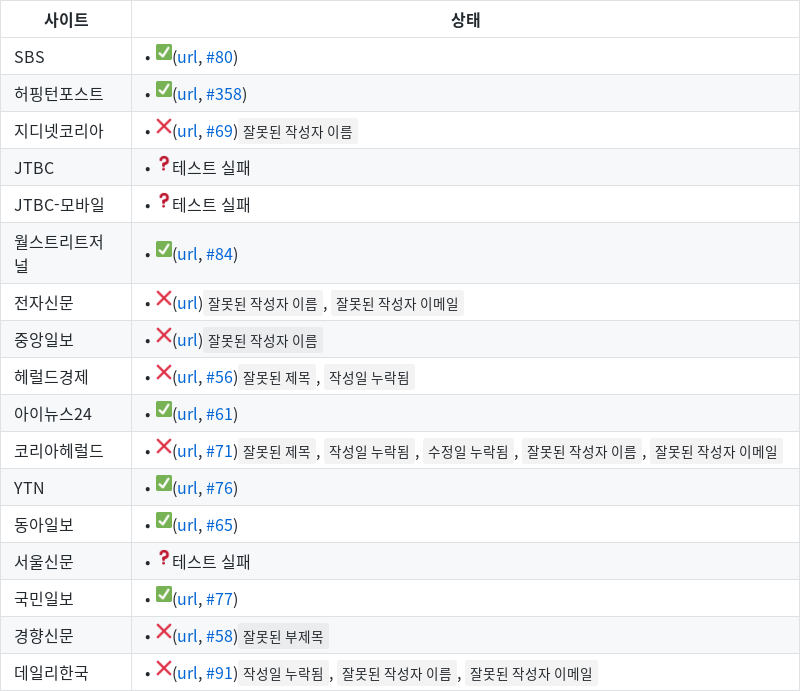
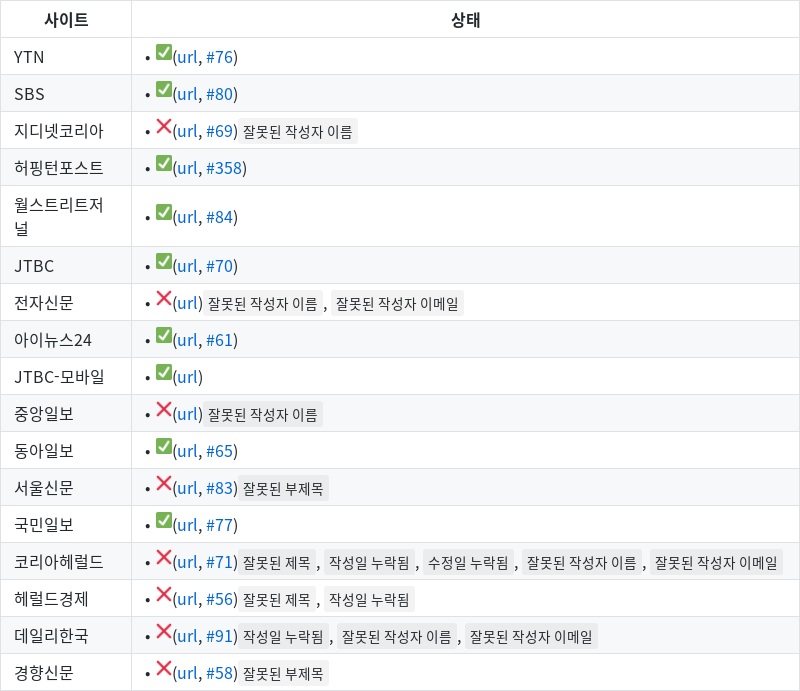
Fri Dec  6 00:07:18 UTC 2019

diff --git a/health-check.md b/health-check.md
@@ -1,19 +1,19 @@
 | 사이트 | 상태 |
 |------|-------|
-| SBS | • ✅([url](https://news.sbs.co.kr/news/endPage.do?news_id=N1002697236), [#80](https://github.com/disjukr/just-news/issues/#80)) |
-| 허핑턴포스트 | • ✅([url](https://www.huffingtonpost.kr/entry/story_kr_5d36a558e4b004b6adb5029c?9e4), [#358](https://github.com/disjukr/just-news/issues/#358)) |
-| 지디넷코리아 | • ❌([url](http://www.zdnet.co.kr/view/?no=20141104074223), [#69](https://github.com/disjukr/just-news/issues/#69))`잘못된 작성자 이름` |
-| JTBC | • ❓테스트 실패 |
-| JTBC-모바일 | • ❓테스트 실패 |
-| 월스트리트저널 | • ✅([url](https://realtime.wsj.com/korea/2014/10/13/%EB%B0%95%EC%9B%90%EC%88%9C-%EC%84%9C%EC%9A%B8%EC%8B%9C%EC%9E%A5-%EB%AF%B8%EA%B5%AD-%EC%96%B8%EB%A1%A0%EC%97%90-%EB%8F%99%EC%84%B1%EA%B2%B0%ED%98%BC-%EC%A7%80%EC%A7%80-%EB%B0%9C%EC%96%B8/), [#84](https://github.com/disjukr/just-news/issues/#84)) |
-| 전자신문 | • ❌([url](http://www.etnews.com/20191031000370?mc=ns_003_00006))`잘못된 작성자 이름`, `잘못된 작성자 이메일` |
-| 중앙일보 | • ❌([url](https://news.joins.com/article/23621286))`잘못된 작성자 이름` |
-| 헤럴드경제 | • ❌([url](http://news.heraldcorp.com/view.php?ud=20141023000202&md=20141023091209_BK), [#56](https://github.com/disjukr/just-news/issues/#56))`잘못된 제목`, `작성일 누락됨` |
-| 아이뉴스24 | • ✅([url](http://www.inews24.com/view/860573), [#61](https://github.com/disjukr/just-news/issues/#61)) |
-| 코리아헤럴드 | • ❌([url](http://khnews.kheraldm.com/view.php?ud=20141111001137&md=20141111180830_BK&kr=1), [#71](https://github.com/disjukr/just-news/issues/#71))`잘못된 제목`, `작성일 누락됨`, `수정일 누락됨`, `잘못된 작성자 이름`, `잘못된 작성자 이메일` |
 | YTN | • ✅([url](https://www.ytn.co.kr/_ln/0103_201411190800481989), [#76](https://github.com/disjukr/just-news/issues/#76)) |
+| SBS | • ✅([url](https://news.sbs.co.kr/news/endPage.do?news_id=N1002697236), [#80](https://github.com/disjukr/just-news/issues/#80)) |
+| 지디넷코리아 | • ❌([url](http://www.zdnet.co.kr/view/?no=20141104074223), [#69](https://github.com/disjukr/just-news/issues/#69))`잘못된 작성자 이름` |
+| 허핑턴포스트 | • ✅([url](https://www.huffingtonpost.kr/entry/story_kr_5d36a558e4b004b6adb5029c?9e4), [#358](https://github.com/disjukr/just-news/issues/#358)) |
+| 월스트리트저널 | • ✅([url](https://realtime.wsj.com/korea/2014/10/13/%EB%B0%95%EC%9B%90%EC%88%9C-%EC%84%9C%EC%9A%B8%EC%8B%9C%EC%9E%A5-%EB%AF%B8%EA%B5%AD-%EC%96%B8%EB%A1%A0%EC%97%90-%EB%8F%99%EC%84%B1%EA%B2%B0%ED%98%BC-%EC%A7%80%EC%A7%80-%EB%B0%9C%EC%96%B8/), [#84](https://github.com/disjukr/just-news/issues/#84)) |
+| JTBC | • ✅([url](http://news.jtbc.joins.com/article/article.aspx?news_id=NB10639468), [#70](https://github.com/disjukr/just-news/issues/#70)) |
+| 전자신문 | • ❌([url](http://www.etnews.com/20191031000370?mc=ns_003_00006))`잘못된 작성자 이름`, `잘못된 작성자 이메일` |
+| 아이뉴스24 | • ✅([url](http://www.inews24.com/view/860573), [#61](https://github.com/disjukr/just-news/issues/#61)) |
+| JTBC-모바일 | • ✅([url](http://mnews.jtbc.joins.com/News/Article.aspx?news_id=NB11866214)) |
+| 중앙일보 | • ❌([url](https://news.joins.com/article/23621286))`잘못된 작성자 이름` |
 | 동아일보 | • ✅([url](http://news.donga.com/3/03/20141107/67723014/1), [#65](https://github.com/disjukr/just-news/issues/#65)) |
-| 서울신문 | • ❓테스트 실패 |
+| 서울신문 | • ❌([url](http://seoul.co.kr/news/newsView.php?id=20141204500025), [#83](https://github.com/disjukr/just-news/issues/#83))`잘못된 부제목` |
 | 국민일보 | • ✅([url](http://news.kmib.co.kr/article/view.asp?arcid=0008864720&code=61121111), [#77](https://github.com/disjukr/just-news/issues/#77)) |
-| 경향신문 | • ❌([url](http://biz.khan.co.kr/khan_art_view.html?artid=201410311921301&code=920100&med=khan), [#58](https://github.com/disjukr/just-news/issues/#58))`잘못된 부제목` |
+| 코리아헤럴드 | • ❌([url](http://khnews.kheraldm.com/view.php?ud=20141111001137&md=20141111180830_BK&kr=1), [#71](https://github.com/disjukr/just-news/issues/#71))`잘못된 제목`, `작성일 누락됨`, `수정일 누락됨`, `잘못된 작성자 이름`, `잘못된 작성자 이메일` |
+| 헤럴드경제 | • ❌([url](http://news.heraldcorp.com/view.php?ud=20141023000202&md=20141023091209_BK), [#56](https://github.com/disjukr/just-news/issues/#56))`잘못된 제목`, `작성일 누락됨` |
 | 데일리한국 | • ❌([url](http://daily.hankooki.com/lpage/politics/201412/dh20141219103740137430.htm), [#91](https://github.com/disjukr/just-news/issues/#91))`작성일 누락됨`, `잘못된 작성자 이름`, `잘못된 작성자 이메일` |
+| 경향신문 | • ❌([url](http://biz.khan.co.kr/khan_art_view.html?artid=201410311921301&code=920100&med=khan), [#58](https://github.com/disjukr/just-news/issues/#58))`잘못된 부제목` |
